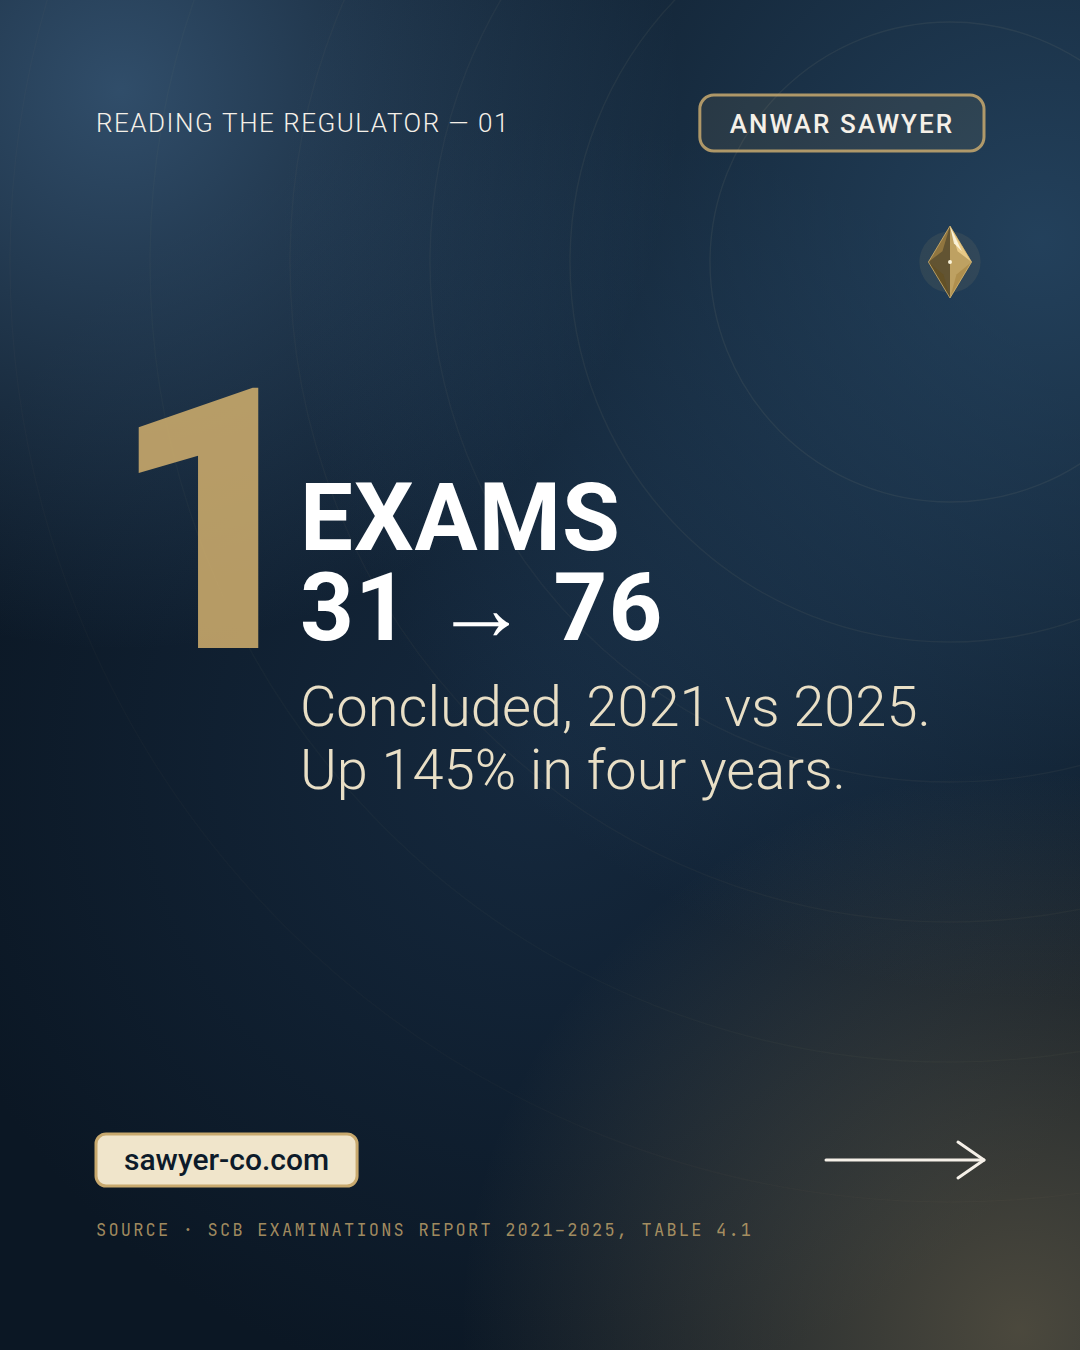
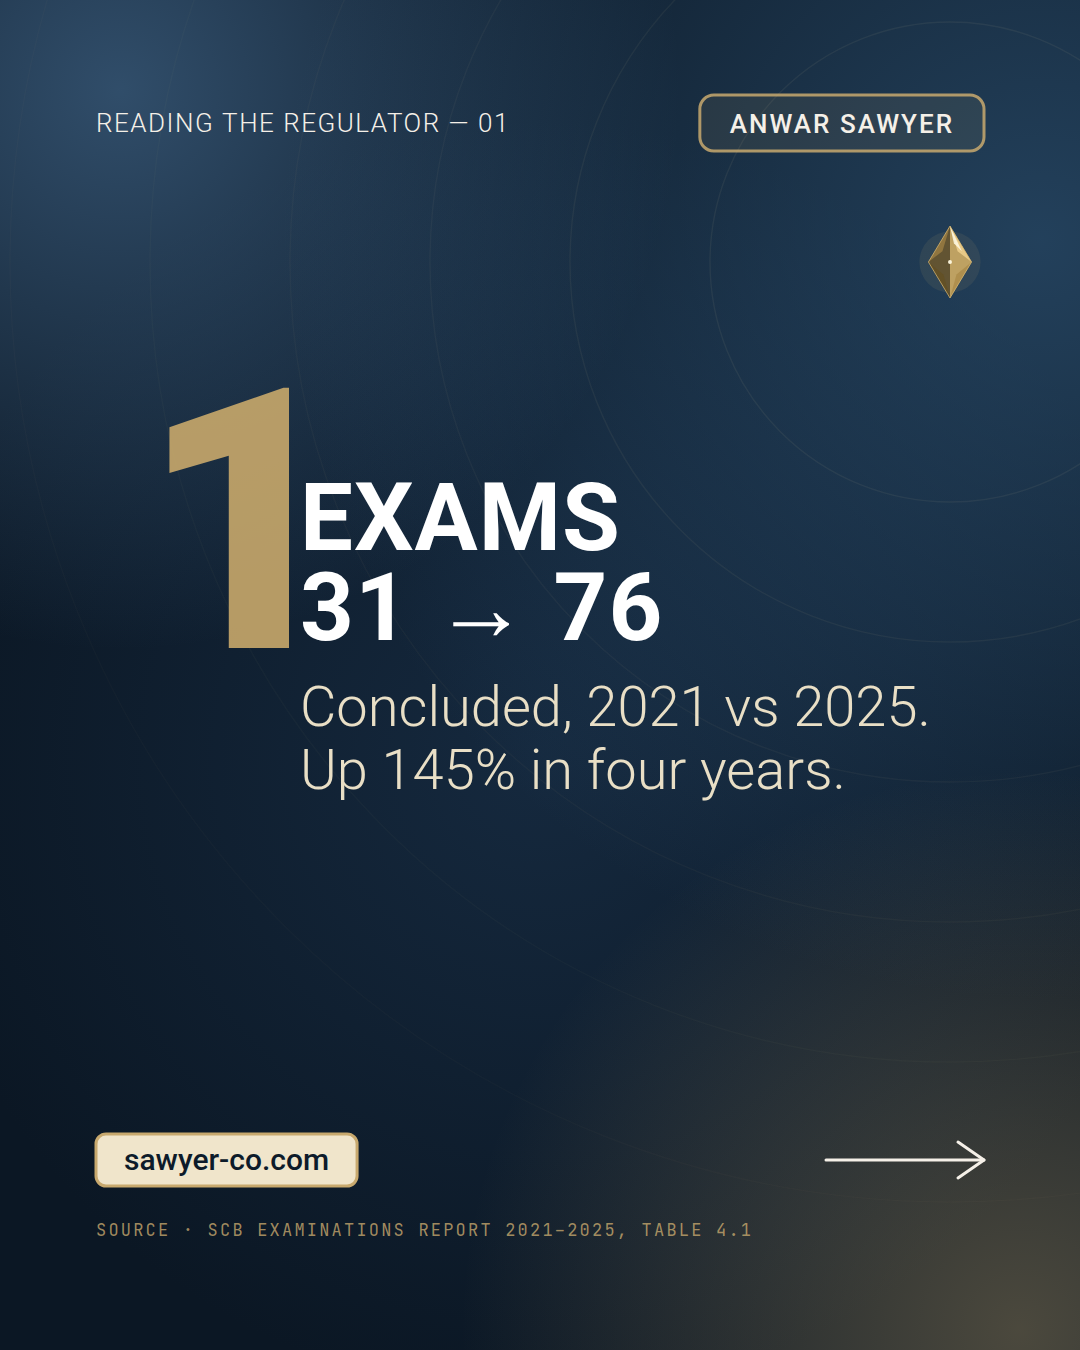
Position numerals by visible glyph edges so 1 and 4 align with their headlines
Claude-Session: https://claude.ai/code/session_01KvkAiN9mT2Qih8Se8Uzgbs

Changed region(s): [[0.1222, 0.28, 0.275, 0.4978]]

diff --git a/social-templates/reading-the-regulator/carousel-v2.html b/social-templates/reading-the-regulator/carousel-v2.html
@@ -143,6 +143,12 @@ function layoutText(str, maxW, startSize, maxLines, weight, minSize = 28) {
   }
   probe.remove(); return { lines: str.split("|"), size: minSize };
 }
+const inkBox = (str, size, weight, ls = 0) => {      // visible extent of the glyphs relative to the text origin
+  const c = document.createElement("canvas").getContext("2d");
+  c.font = `${weight} ${size}px IN`; c.letterSpacing = ls + "px";
+  const m = c.measureText(str.replace(/ /g, NB));
+  return { left: m.actualBoundingBoxLeft, right: m.actualBoundingBoxRight };
+};
 const measure = (str, size, weight) => { const t = el("text", { x: -9999, y: -9999, "font-size": size, "font-weight": weight, "letter-spacing": 1 }); t.textContent = str.replace(/ /g, NB); const w = t.getComputedTextLength(); t.remove(); return w; };
 
 function headBlock(S, x, maxW, lastBase, startSize, maxLines, anchor = "start") {
@@ -237,8 +243,8 @@ const BUILDERS = {
     if (S.portrait) portrait(); else { heroRooster(); }
     if (!S.portrait) needle(L.needle.x, L.needle.y, L.needle.scale);
     chrome(C, { arrow: true });
-    let nSize = 250; const nw = measure(S.numeral, nSize, 900);
-    txt(S.numeral, { x: L.M - 8, y: 440, fill: "rgba(205,172,108,.88)", "font-weight": 900, "font-size": nSize, "letter-spacing": -3 });
+    let nSize = 250; const cink = inkBox(S.numeral, nSize, 900, -3);
+    txt(S.numeral, { x: L.M + cink.left, y: 440, fill: "rgba(205,172,108,.88)", "font-weight": 900, "font-size": nSize, "letter-spacing": -3 });
     headBlock(S, L.M, 560, 632, 96, 2);
     subBlock(S.sub, L.M, 632 + 78, 420, 50, 2);
   },
@@ -246,8 +252,8 @@ const BUILDERS = {
     background(L.needle.x, L.needle.y); needle(L.needle.x, L.needle.y, L.needle.scale);
     chrome(C);
     const hx = 300, last = 640, nSize = 366;                       // text block edge, last headline baseline, numeral size
-    const nw = measure(S.numeral, nSize, 900);
-    txt(S.numeral, { x: hx + 22 - nw, y: last + 8, fill: "rgba(205,172,108,.88)", "font-weight": 900, "font-size": nSize, "letter-spacing": -4 });   // numeral sits beside the text, overlapping only its leading edge
+    const ink = inkBox(S.numeral, nSize, 900, -4);
+    txt(S.numeral, { x: hx - 6 - ink.right, y: last + 8, fill: "rgba(205,172,108,.88)", "font-weight": 900, "font-size": nSize, "letter-spacing": -4 });   // numeral sits beside the text, overlapping only its leading edge
     headBlock(S, hx, L.R - hx, last, 94, Math.max(2, S.headline.split('|').length));
     subBlock(S.sub, hx, last + 86, L.R - hx, 56, Math.max(2, S.sub.split('|').length));   // each forced line stays on one line; type shrinks to fit
   },
